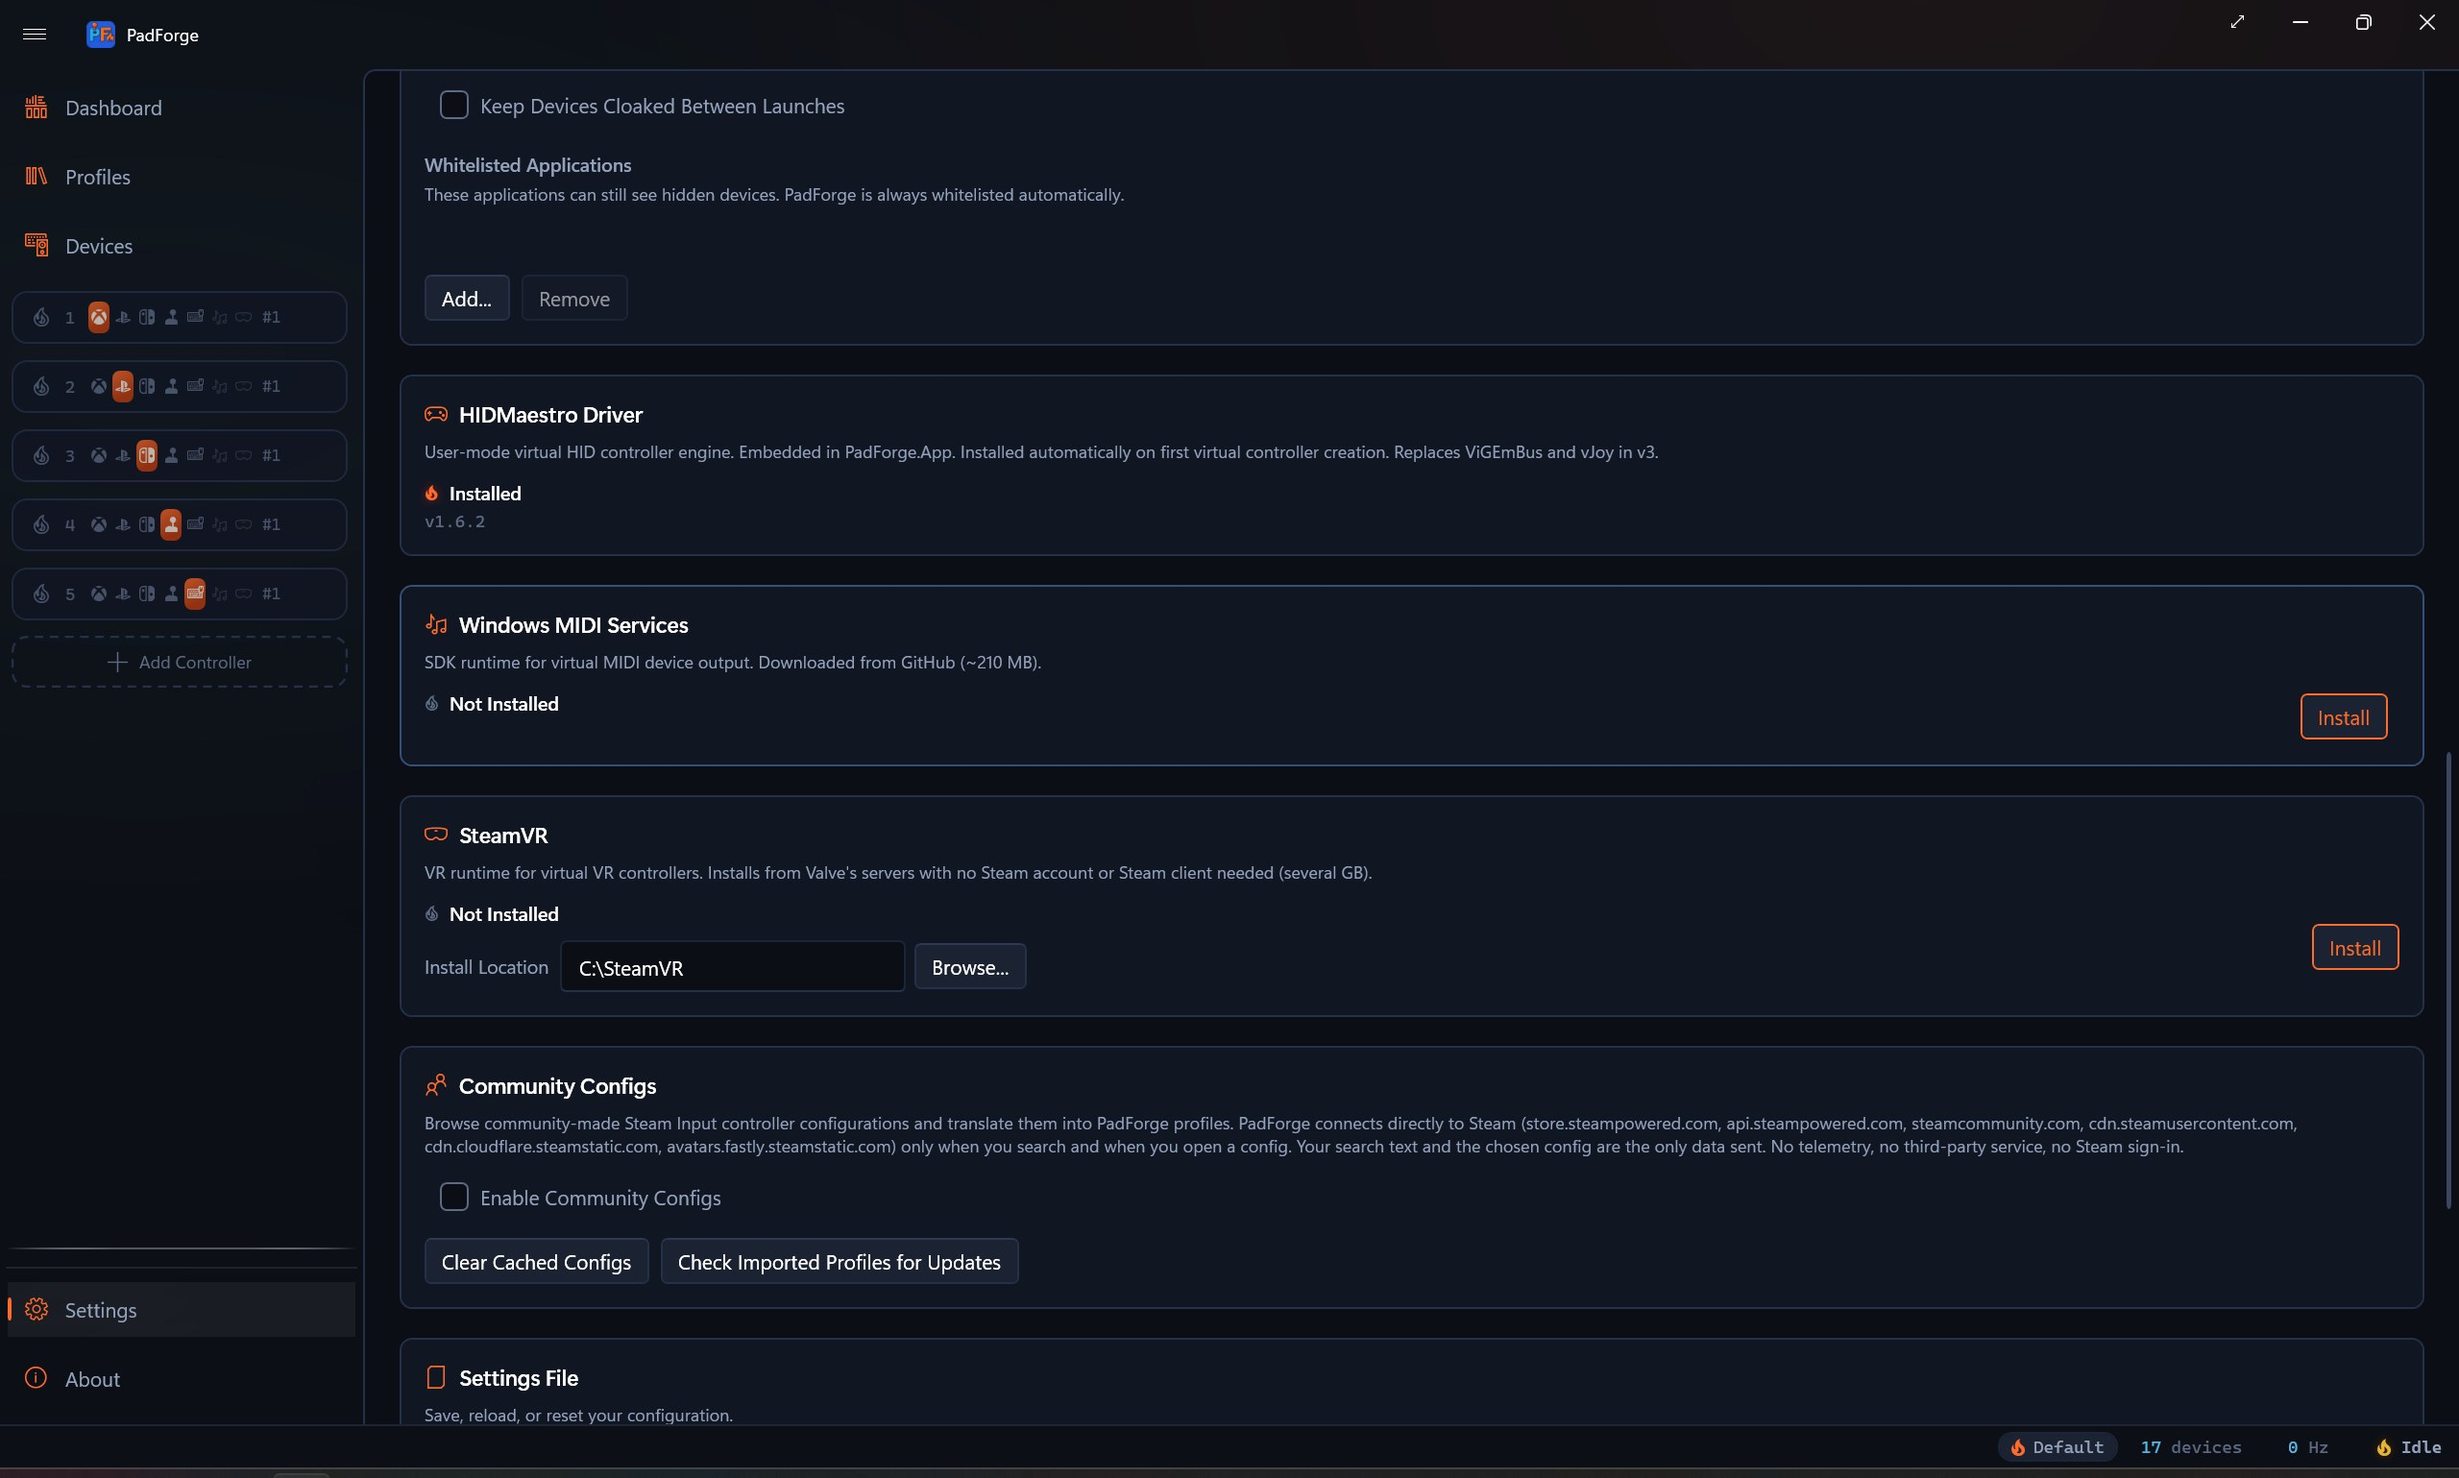
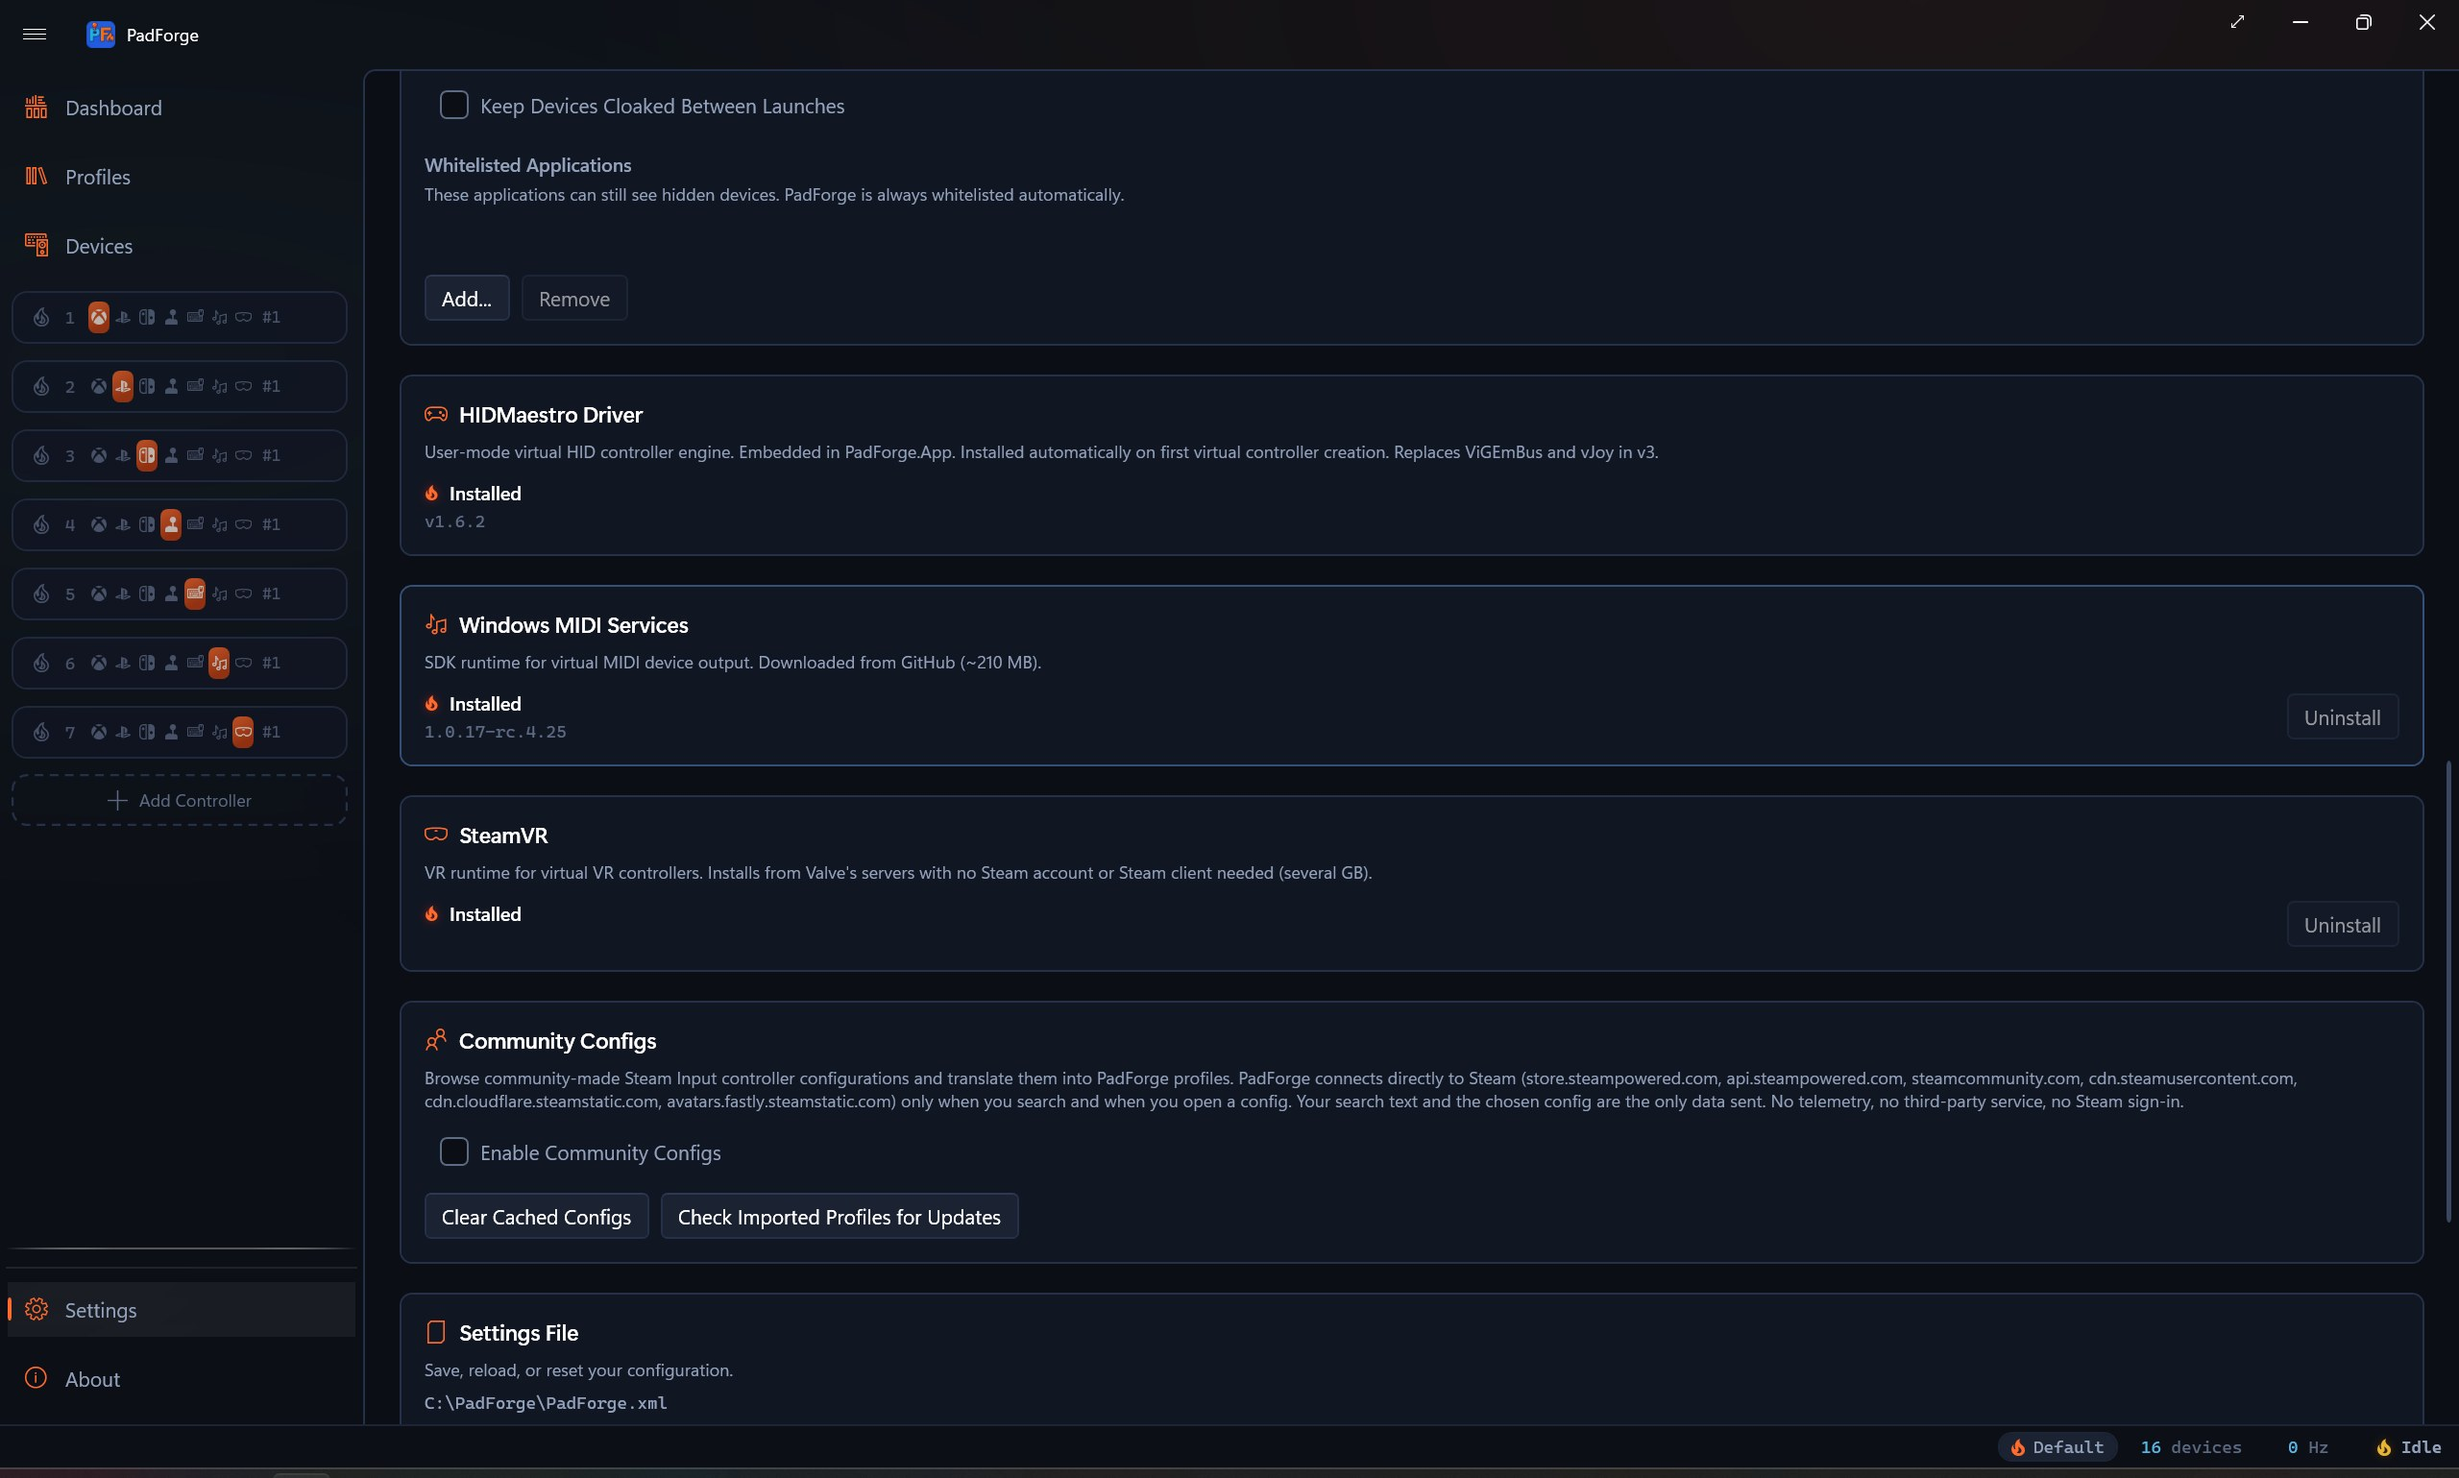
Recapture the Settings set complete: seven slot types, every driver installed
The previous nine were taken on a machine where MIDI Services and SteamVR
had just been uninstalled, so the harness could only build five of the seven
slot types and every image shipped a short rail. That is an omission, and an
omission is never allowed to ship: the rail is in EVERY screenshot, so a
missing type does not spoil one image, it makes the whole set disagree with
the product. Both drivers are installed and the set is captured complete.

Two captions described a state a complete install cannot show, so they now
describe what it does show. The SteamVR card's install-location field only
exists before installing, and every status flame is lit once every driver is
in. The prose still explains both.

diff --git a/docs/features/settings/index.html b/docs/features/settings/index.html
@@ -3942,7 +3942,7 @@
 </ul>
 <p>Each guard reads the slots you have saved rather than what the engine is currently running, so it holds with the engine stopped, which is when most people go tidying up drivers. Switching a slot's type releases the old type's driver and locks the new one straight away.</p>
 <h3 id="the-steamvr-card">The SteamVR card<a class="headerlink" href="#the-steamvr-card" title="Permanent link">&para;</a></h3>
-<p><img alt="The SteamVR card with its install location field" src="../../images/settings-steamvr.png" /></p>
+<p><img alt="The SteamVR card, installed" src="../../images/settings-steamvr.png" /></p>
 <p>Before installing, the card offers an <strong>Install Location</strong>. It defaults to <code>C:\SteamVR</code> and takes any full path on any drive. A bare drive root is refused, because the uninstall side deletes the recorded directory and pointing that at an entire drive is not a mistake worth allowing.</p>
 <p><strong>Uninstall appears only for an install PadForge itself created.</strong> PadForge works that out by checking whether it recorded the path and whether Steam's own registry entries point at the same folder. A SteamVR installed through the Steam client belongs to Steam, shows no Uninstall button here, and is never touched. The uninstall also stays disabled while any VR slot exists, and refuses while SteamVR is running.</p>
 <p>SteamVR keeps its own log and settings inside the folder you chose, as <code>logs</code> and <code>config</code> subfolders. Removing the install takes them with it.</p>

diff --git a/docs/features/driver-management/index.html b/docs/features/driver-management/index.html
@@ -3666,7 +3666,7 @@
 <h2 id="status-indicators">Status indicators<a class="headerlink" href="#status-indicators" title="Permanent link">&para;</a></h2>
 <p>Each driver card on the Settings page shows an ember flame next to its status text.</p>
 <!-- SCREENSHOT: driver-status-flames -->
-<p><img alt="Lit and unlit driver flames" src="../../images/driver-status-flames.png" /></p>
+<p><img alt="Driver cards with their status flames and versions" src="../../images/driver-status-flames.png" /></p>
 <table>
 <thead>
 <tr>

diff --git a/wiki/features/settings.md b/wiki/features/settings.md
@@ -152,7 +152,7 @@ Each guard reads the slots you have saved rather than what the engine is current
 
 ### The SteamVR card
 
-![The SteamVR card with its install location field](../images/settings-steamvr.png)
+![The SteamVR card, installed](../images/settings-steamvr.png)
 
 Before installing, the card offers an **Install Location**. It defaults to `C:\SteamVR` and takes any full path on any drive. A bare drive root is refused, because the uninstall side deletes the recorded directory and pointing that at an entire drive is not a mistake worth allowing.
 

diff --git a/wiki/features/driver-management.md b/wiki/features/driver-management.md
@@ -34,7 +34,7 @@ HidHide, Windows MIDI Services, and SteamVR do not auto-install. They sit on the
 Each driver card on the Settings page shows an ember flame next to its status text.
 
 <!-- SCREENSHOT: driver-status-flames -->
-![Lit and unlit driver flames](../images/driver-status-flames.png)
+![Driver cards with their status flames and versions](../images/driver-status-flames.png)
 
 | Flame | Meaning |
 |---|---|
